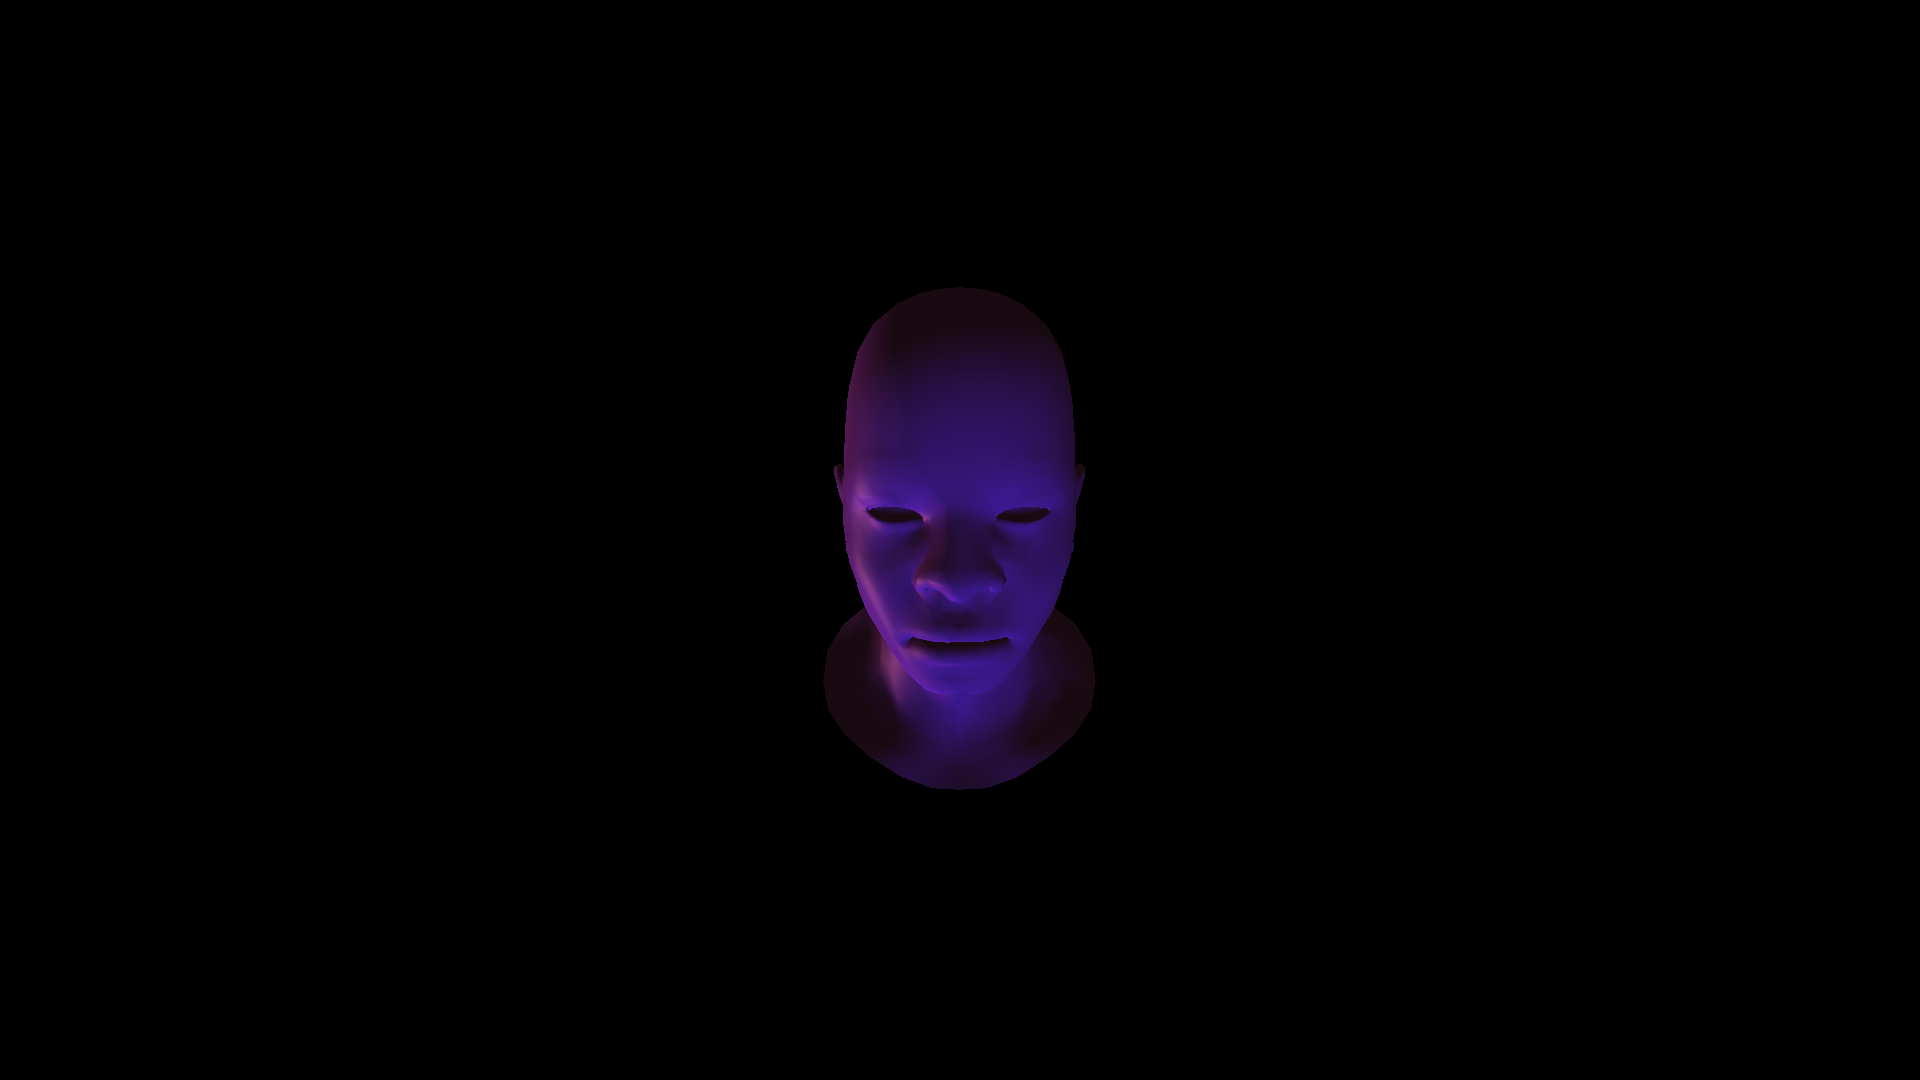
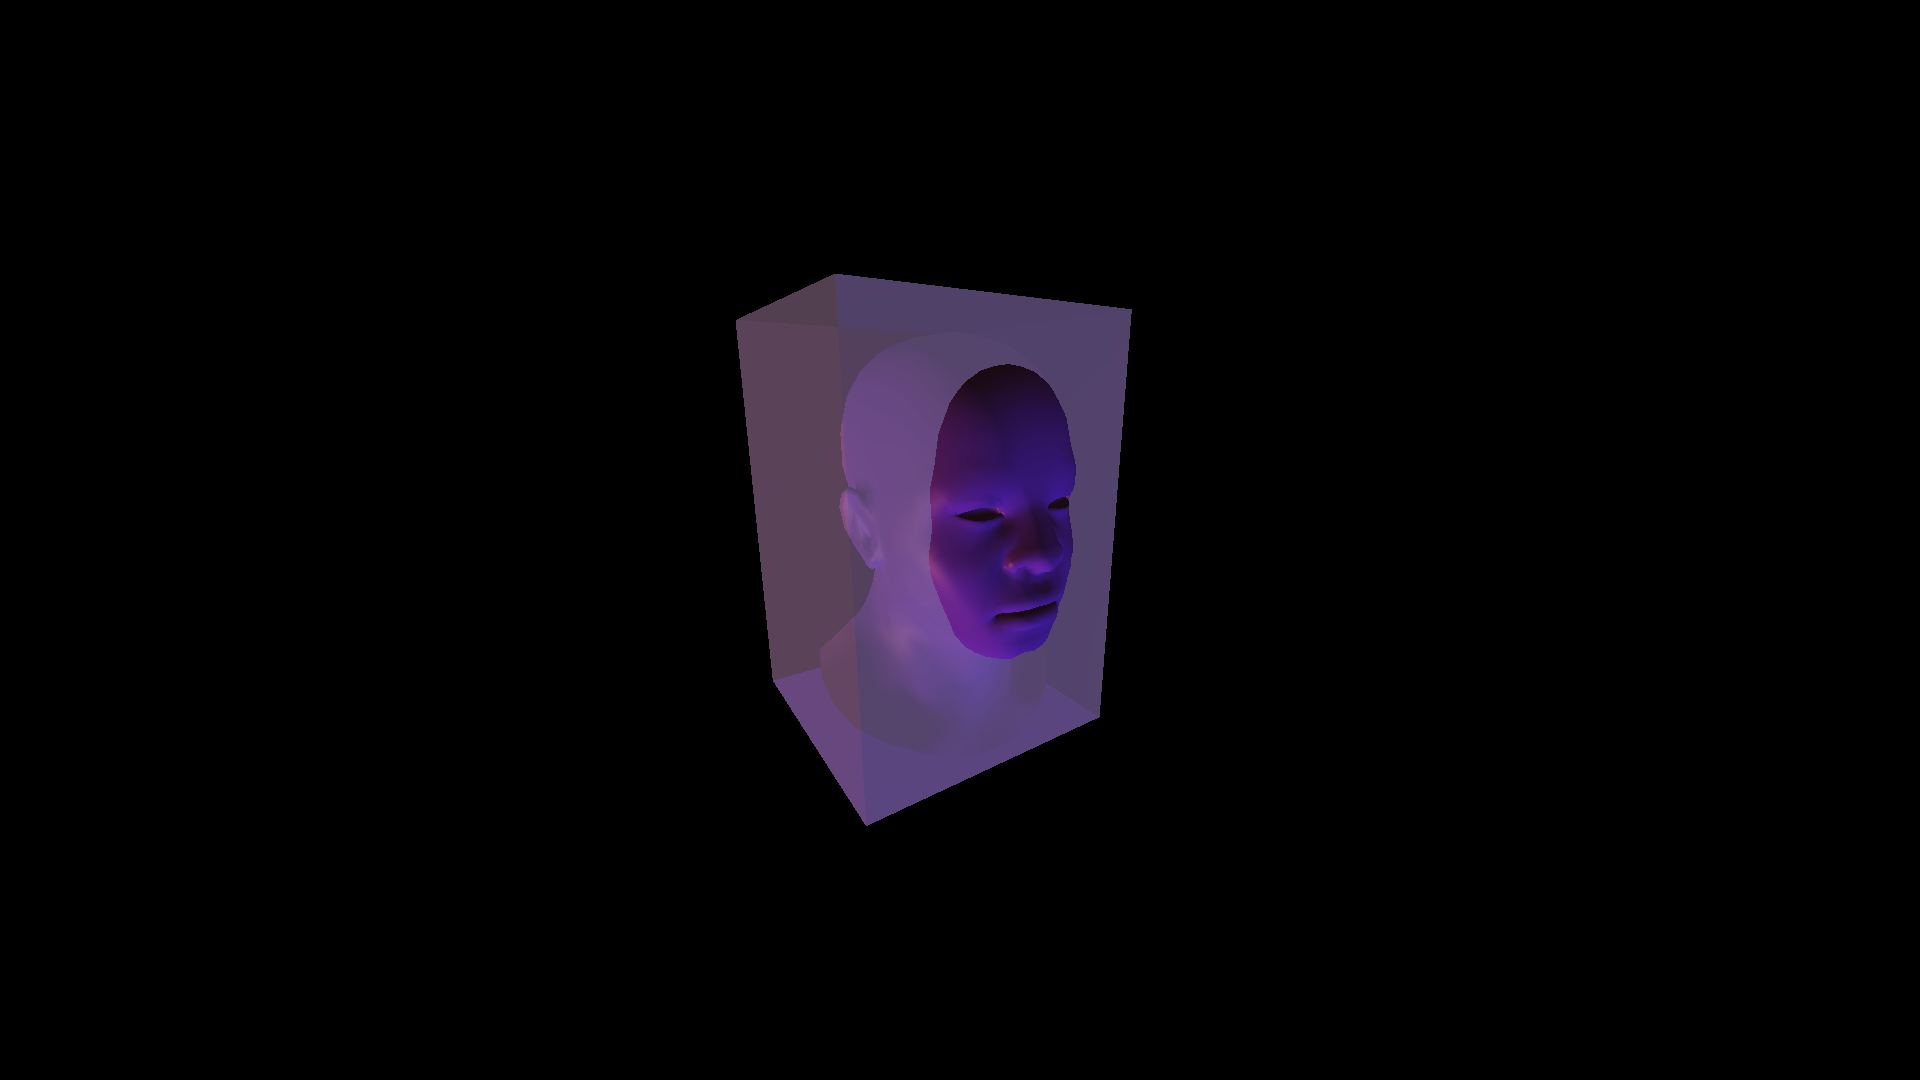
add ice
add ice

Changed region(s): [[0.375, 0.2444, 0.5938, 0.7639]]

diff --git a/cpp/image.cpp b/cpp/image.cpp
@@ -9,7 +9,7 @@ Image::Image(int Width, int Height)
 {
     width = Width; 
     height = Height;
-    pixels = std::vector<uint8_t>(static_cast<size_t>(width) * height * 3, 0);
+    pixels = std::vector<uint8_t>(static_cast<size_t>(width) * height * 4, 0);
 }
 
 
@@ -18,29 +18,41 @@ void Image::clear(const Vec3f& color)
     const uint8_t r = static_cast<uint8_t>(clamp(color.x, 0.f, 1.f) * 255.f);
     const uint8_t g = static_cast<uint8_t>(clamp(color.y, 0.f, 1.f) * 255.f);
     const uint8_t b = static_cast<uint8_t>(clamp(color.z, 0.f, 1.f) * 255.f);
-    for (size_t i = 0; i < pixels.size(); i += 3) 
+    for (size_t i = 0; i < pixels.size(); i += 4) 
     {
         pixels[i] = r;
         pixels[i + 1] = g;
         pixels[i + 2] = b;
+        pixels[i + 3] = 255;
     }
 }
 
-void Image::setPixelColor(int x, int y, const Vec3f& color) 
+void Image::setPixelColor(int x, int y, const Vec3f& color, uint8_t opacity) 
 {
     if (x < 0 || x >= width || y < 0 || y >= height) 
     {
         return;
     }
 
-    size_t index = (static_cast<size_t>(y) * width + x) * 3;
-    pixels[index] = static_cast<uint8_t>(clamp(color.x, 0.f, 1.f) * 255.f);
-    pixels[index + 1] = static_cast<uint8_t>(clamp(color.y, 0.f, 1.f) * 255.f);
-    pixels[index + 2] = static_cast<uint8_t>(clamp(color.z, 0.f, 1.f) * 255.f);
+    size_t index = (static_cast<size_t>(y) * width + x) * 4;
+    if (opacity == 255) 
+    {
+        pixels[index] = static_cast<uint8_t>(clamp(color.x, 0.f, 1.f) * 255.f);
+        pixels[index + 1] = static_cast<uint8_t>(clamp(color.y, 0.f, 1.f) * 255.f);
+        pixels[index + 2] = static_cast<uint8_t>(clamp(color.z, 0.f, 1.f) * 255.f);
+        pixels[index + 3] = opacity;
+    }
+    else 
+    {
+        pixels[index] = (pixels[index] + static_cast<uint8_t>(clamp(color.x, 0.f, 1.f) * 255.f)) / 2;
+        pixels[index + 1] = (pixels[index + 1] + static_cast<uint8_t>(clamp(color.y, 0.f, 1.f) * 255.f)) / 2;
+        pixels[index + 2] = (pixels[index + 2] + static_cast<uint8_t>(clamp(color.z, 0.f, 1.f) * 255.f)) / 2;
+        pixels[index + 3] = opacity;
+    }
 }
 
 bool Image::makePNG(const std::string& path) const 
 {
-    int stride = width * 3;
-    return stbi_write_png(path.c_str(), width, height, 3, pixels.data(), stride) != 0;
+    int stride = width * 4;
+    return stbi_write_png(path.c_str(), width, height, 4, pixels.data(), stride) != 0;
 }

diff --git a/cpp/rasterizer.cpp b/cpp/rasterizer.cpp
@@ -26,10 +26,10 @@ Vec3f Rasterizer::barycentric(const std::array<float, 2>& a, const std::array<fl
     return { 1.f - u_coord - v_coord, u_coord, v_coord };
 }
 
-void Rasterizer::render(const Mesh& model, IShader& shader) 
+void Rasterizer::render(const Mesh& model, IShader& shader, uint8_t opacity) 
 {
-    colorBuffer.clear({ 0.f, 0.f, 0.f });
-    std::fill(zBuffer.begin(), zBuffer.end(), std::numeric_limits<float>::infinity());
+    //colorBuffer.clear({ 0.f, 0.f, 0.f });
+    //std::fill(zBuffer.begin(), zBuffer.end(), std::numeric_limits<float>::infinity());
 
     int width = colorBuffer.getWidth();
     int height = colorBuffer.getHeight();
@@ -79,8 +79,11 @@ void Rasterizer::render(const Mesh& model, IShader& shader)
                 if (depth < zBuffer[index]) 
                 {
                     Vec3f color = shader.fragment(bary, { verts[0].payLoad, verts[1].payLoad, verts[2].payLoad });
-                    colorBuffer.setPixelColor(x, y, color);
-                    zBuffer[index] = depth;
+                    colorBuffer.setPixelColor(x, y, color, opacity);
+                    if (opacity == 255)
+                    {
+                        zBuffer[index] = depth;
+                    }
                 }
             }
         }

diff --git a/cpp/laba3Rasterizer1.1.cpp b/cpp/laba3Rasterizer1.1.cpp
@@ -10,9 +10,10 @@ int main()
     const int width = 1920;
     const int height = 1080;
 
-    Mesh model("meshes/Afro.obj");
+    Mesh model("meshes/african_head.obj");
+    Mesh cube("cube-tex.obj");
 
-    Vec3f CamPos = { 0.f, 1.f,3.f };
+    Vec3f CamPos = { -2.f, 1.f,3.f };
     Vec3f Target = { 0.f, 0.f, 0.f };
     Vec3f UpDir = { 0.f, 1.f, 0.f };
     float FOV = 90.f;
@@ -23,6 +24,7 @@ int main()
     Camera camera(CamPos, Target, UpDir, FOV, Aspect, NearPlane, FarPlane);
 
     Mat4f ModelMatrix = Mat4f::translation({ 0.f, -0.05f, 0.f }) * Mat4f::scale({ 1.4f, 1.4f, 1.4f });
+    Mat4f ModelMatrix1 = Mat4f::translation({ -1.f, -1.5f, -1.5f }) * Mat4f::scale({ 2.f, 3.f, 2.f });
 
     Vec3f LightDir = { 0.4f, 0.2f, 0.1f };
     Vec3f LightColor = { 1.f, 0.4f, 0.7f };
@@ -46,5 +48,10 @@ int main()
 
     Rasterizer raster(width, height);
     raster.render(model, shader);
+    shader.setMatrix(ModelMatrix1, camera.getViewMatrix(), camera.getProjectionMatrix());
+    raster.render(cube, shader, 200);
+
+
+
     raster.MakePNG("output.png");
 }

diff --git a/headers/image.h b/headers/image.h
@@ -18,7 +18,7 @@ public:
     Image(int width, int height);
 
     void clear(const Vec3f& color);
-    void setPixelColor(int x, int y, const Vec3f& color);
+    void setPixelColor(int x, int y, const Vec3f& color, uint8_t opacity);
     bool makePNG(const std::string& path) const;
 
     int getWidth() const 

diff --git a/headers/rasterizer.h b/headers/rasterizer.h
@@ -25,7 +25,7 @@ private:
 public:
     Rasterizer(int width, int height);
 
-    void render(const Mesh& mesh, IShader& shader);
+    void render(const Mesh& mesh, IShader& shader, uint8_t opacity = 255);
     bool MakePNG(const std::string& path) const;
 
     const Image& image() const 
